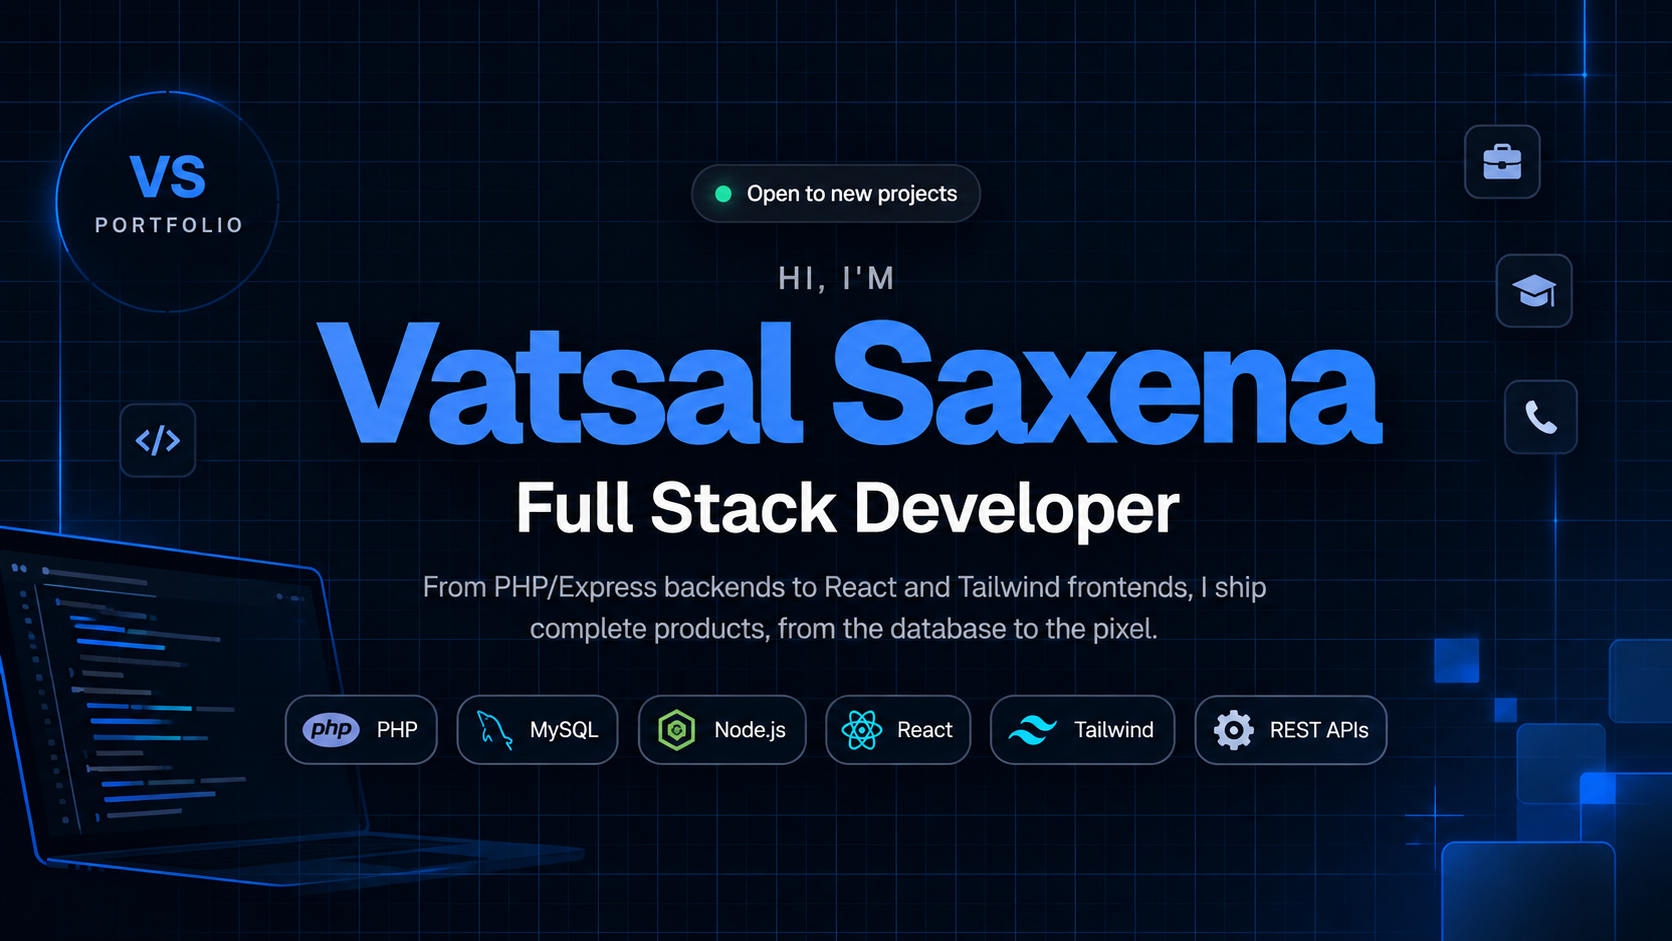
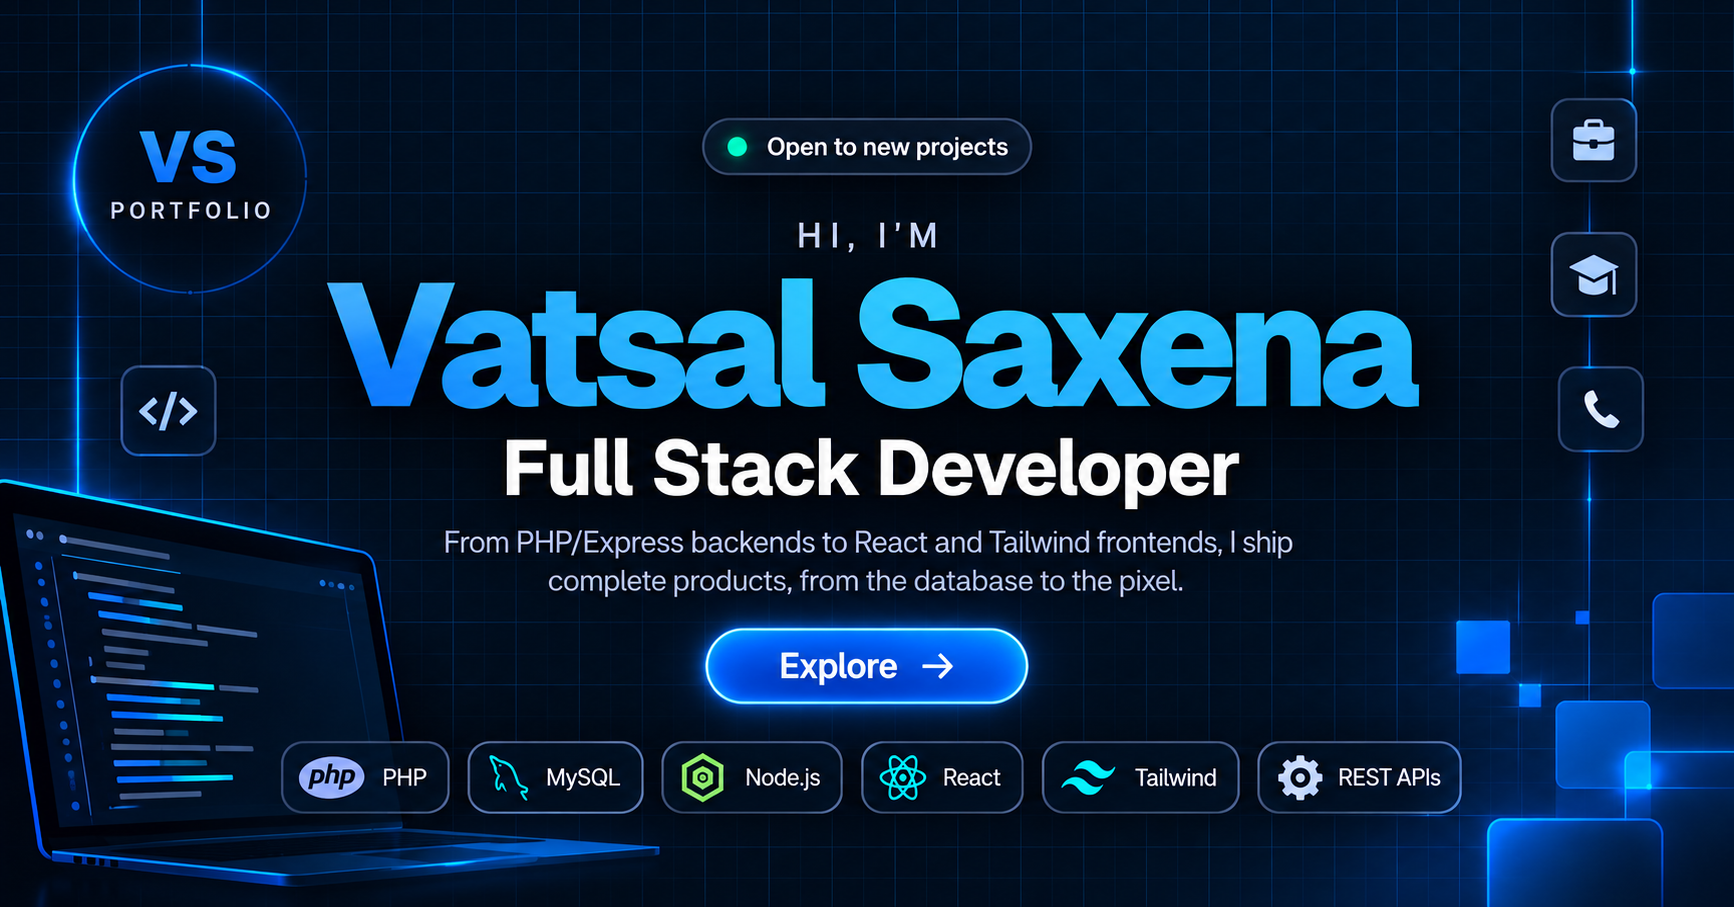
fixed meta data for Open Graph

diff --git a/index.html b/index.html
@@ -5,12 +5,11 @@
     <meta name="viewport" content="width=device-width, initial-scale=1.0" />
 
     <!-- Primary SEO -->
-    <title>
-      Vatsal Saxena | Full Stack Developer (PHP, MySQL, Node.js, React)
-    </title>
+    <title>Vatsal Saxena | Full Stack Developer</title>
+
     <meta
       name="description"
-      content="Vatsal Saxena is a Full Stack Developer at Enkidu Technologies, building scalable backends, fast React and Tailwind interfaces, APIs and admin panels. Explore his projects, skills and experience."
+      content="Vatsal Saxena is a Full Stack Developer building scalable web apps, PHP and Node.js backends, React interfaces, APIs and admin panels."
     />
     <link rel="canonical" href="https://vatsalsaxena22.github.io/" />
     <meta name="author" content="Vatsal Saxena" />
@@ -37,7 +36,7 @@
     />
     <meta
       property="og:image"
-      content="https://vatsalsaxena22.github.io/images/og.png"
+      content="https://vatsalsaxena22.github.io/images/og.jpg"
     />
     <meta property="og:image:width" content="1200" />
     <meta property="og:image:height" content="630" />
@@ -55,7 +54,7 @@
     />
     <meta
       name="twitter:image"
-      content="https://vatsalsaxena22.github.io/images/og.png"
+      content="https://vatsalsaxena22.github.io/images/og.jpg"
     />
     <meta
       name="twitter:image:alt"
@@ -94,7 +93,7 @@
             "@id": "https://vatsalsaxena22.github.io/#person",
             "name": "Vatsal Saxena",
             "url": "https://vatsalsaxena22.github.io/",
-            "image": "https://vatsalsaxena22.github.io/images/og.png",
+            "image": "https://vatsalsaxena22.github.io/images/og.jpg",
             "jobTitle": "Full Stack Developer",
             "description": "Full Stack Developer building scalable backends, responsive interfaces, APIs and admin panels.",
             "worksFor": {
@@ -287,10 +286,7 @@
             <sup>Current</sup>
             <p>
               February 2026 - till now
-              <span
-                class="tenure"
-                data-start="2026-02"
-              ></span>
+              <span class="tenure" data-start="2026-02"></span>
             </p>
           </div>
         </div>
@@ -308,7 +304,7 @@
               rel="noopener"
               >Apna Digital Solution</a
             >
-            
+
             <p>
               August 2025 - February 2026
               <span
@@ -395,7 +391,8 @@
                 <time class="timeline-date" datetime="2025">2025</time>
                 <div class="timeline-title">Graduation</div>
                 <div class="timeline-content">
-                  Master of Computer Applications from Asian International University
+                  Master of Computer Applications from Asian International
+                  University
                 </div>
               </li>
               <li class="timeline-item">
